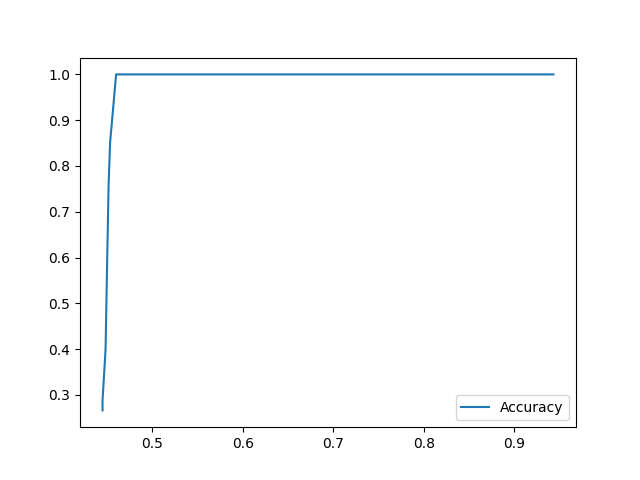
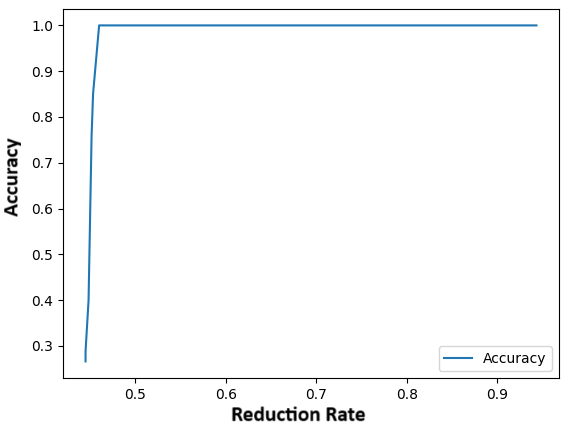
Section experiments reworded

diff --git a/experiments.tex b/experiments.tex
@@ -58,7 +58,6 @@ machine running on an Intel(R) Core(TM) i7-13700 with 24 CPUs running at
 
 \subsection{Verification of \acasxu}
 \label{s:acas-verif}
-\todo{Push to front}
 
 In this set of experiments, we demonstrate the effectiveness of our abstraction
 technique for verification of neural network queries on the \acasxu set of
@@ -70,7 +69,7 @@ that as $\vct{\beta}$ to refine our network according to Section
 
 For these experiments, we have used \neuralsat as the solver. 
 We compare our abstraction framework with an existing \cegar framework proposed
-in \cite{cegar-nn}. \footnote{We have used a faithful re-implementation of this framework that
+in \cite{cegar-nn} \footnote{We have used a faithful re-implementation of this framework that
 follows exactly the procedure in the paper, with the only distinction being that
 the call to verify the \abs obtained in each iteration is sent to an instance of
 the \neuralsat solver as opposed to \marabou. \dmcmt{Is this okay?}}. We set a
@@ -78,44 +77,44 @@ timeout of 200 seconds for each instance in the benchmark and for both the
 our technique and the existing work \cite{cegar-nn}.
 
 \begin{table}
-%\footnotesize
-\begin{tabular}{ |c|c|c|c|c| }
-\hline
-Method                   & No. Safe    & No. Unsafe & No. Timeout & Average Size \\ 
-\hline
-Ours                     &   121       & 43         & 16          &  335.2555556\\
-Existing \cite{cegar-nn} &   118       & 43         & 19          &  536.0444444\\
-\hline                                                                
-\end{tabular}
-\caption{Summary of \acasxu verification. }
-\label{t:acas-verif}
-\end{table}
+    \centering
+        \begin{tabular}{ |c|c|c|c|c| }
+        \hline
+        Method                   & No. Safe    & No. Unsafe & No. Timeout & Average Size \\ 
+        \hline
+        Ours                     &   121       & 43         & 16          &  335.2555556\\
+        Existing \cite{cegar-nn} &   118       & 43         & 19          &  536.0444444\\
+        \hline                                                                
+        \end{tabular}
+        \caption{Summary of \acasxu verification. }
+        \label{t:acas-verif}
+    \footnotesize
+    \begin{tabular}{ |c|c|c| }
+    \hline
+    Method                   & Percentage Verified  & Average Size \\ 
+    \hline
+    Ours                     &   100\%              &  27.90333333\\
+    Existing \cite{cegar-nn} &   100\%              &  31.47555556\\
+    \hline                                                                
+    \end{tabular}
+    \caption{Summary of \acasxu verification for robustness properties. }
+    \label{t:acas-verif-robustness}
+    \vspace{-1cm}
+    \end{table}
 
-\begin{table}
-%\footnotesize
-\begin{tabular}{ |c|c|c| }
-\hline
-Method                   & Percentage Verified  & Average Size \\ 
-\hline
-Ours                     &   100\%              &  27.90333333\\
-Existing \cite{cegar-nn} &   100\%              &  31.47555556\\
-\hline                                                                
-\end{tabular}
-\caption{Summary of \acasxu verification for robustness properties. }
-\label{t:acas-verif-robustness}
-\end{table}
 
 Table \ref{t:acas-verif} summarizes the results on these benchmarks. We find that
 using our framework, we are able to perform better than the existing \cegar
 approach \cite{cegar-nn}, verifying more networks to be safe.
 
-\begin{figure}
-    \centering
-    \includegraphics[scale=0.25]{figs/scatter-cegar-our-nerualsat.png}
+\begin{wrapfigure}{r}{0.5\textwidth}
+    \vspace*{-1cm}
+    \includegraphics[scale=0.3]{figs/scatter-cegar-our-nerualsat.png}
     \caption{Scatter plot of network sizes produced by our framework vs existing
     work \cite{cegar-nn} \todo{Add diagonal line}}
     \label{f:scatter-netsizes}
-\end{figure}
+    \vspace*{-1cm}
+\end{wrapfigure}
 
 For each framework, we collected the final \abs at the end of the \cegar
 iterations, for which either the property can be proved to be safe, or 
@@ -123,7 +122,7 @@ the solver is able to find an actual counterexample, or the solver times out.
 Figure \ref{f:scatter-netsizes} shows a scatter plot comparing the sizes of these final \abs
 obtained by our framework and by existing work \cite{cegar-nn} for each instance
 in the benchmark. It is apparent from the Figure \ref{f:scatter-netsizes}, 
-table \ref{t:acas-verif} and table \ref{t:acasxu-verif-robustness} that compared 
+table \ref{t:acas-verif} and table \ref{t:acas-verif-robustness} that compared 
 to the existing techniques, we are explore smaller \abs that are effective 
 at proving or disproving the property in question.
 This shows that using semantic information to guide the \cegar process can
@@ -174,7 +173,7 @@ resource-constrained environment.
         plot for \mnist of size $4 \times 256$ with critical class 0. Refinement
     done via the \emph{Score} strategy. In all graphs the Y-axis shows
     true/false negative/positive rates (see legend) and the X-axis shows
-    reduction rates.  \todo{Add labels on graphs here} }
+    reduction rates. }
     \label{f:mnist-class}
     \vspace*{-1cm}
 \end{wrapfigure}
@@ -237,8 +236,10 @@ false positive rate occurs. This indicates that we are eventually able to make
 significant improvements in the false positive rate while sacrificing the
 reduction rate as little as possible. Thus, our technique is able to use
 semantic information to order and undo merge operations in an optimal way.
+\vspace{-0.75cm}
 
 \begin{table}
+\centering
 \begin{tabular}{|c|c|c|c|c|}
 \hline
 Net Size     & $\gamma$ Selection & Reduction & False Positives & Steps  \\ 
@@ -253,6 +254,7 @@ $6\times256$ & Score      & 45.5 \%   & 0.2  \%         & 2425    \\
 \end{tabular}
 \caption{Summary of \mnist compression Results}
 \label{t:mnist-compr-summary}
+\vspace{-1cm}
 \end{table}
 
 Table \ref{t:mnist-compr-summary} summarizes the results from running all the
@@ -289,7 +291,7 @@ iteratively perform refinements, measuring the number of spurious
 counterexamples at each step. 
 
 \begin{figure}
-
+    \vspace{-0.75cm}
     \begin{subfigure}{0.475\linewidth}
         \includegraphics[scale=0.4]{figs/mnist_2_256_prop_0_0.03_samples.png}
         \caption{}
@@ -306,9 +308,10 @@ counterexamples at each step.
         \times 256$ with $\epsilon$-Robustness property are given in 
         \ref{f:mnist-prop-samples}, and for \acasxu
         network 5-8, property 3 in \ref{f:acas-ncex-samples}.
-        $\gamma$ selection is via \emph{Score}. \todo{Label axis on graph}
+        $\gamma$ selection is via \emph{Score}.
     }
     \label{f:ncex}
+    \vspace{-0.75cm}
 \end{figure}
 
 We experimented with two sets of networks and properties: \mnist with
@@ -327,6 +330,7 @@ occurs. As before, we believe that this is evidence that we are able to use
 semantic information and undo merge operations optimally.
 
 \begin{table}
+    \vspace{-0.75cm}
 \parbox{0.60\textwidth}{
 \begin{tabular}{|c|c|c|c|c|}
     \hline
